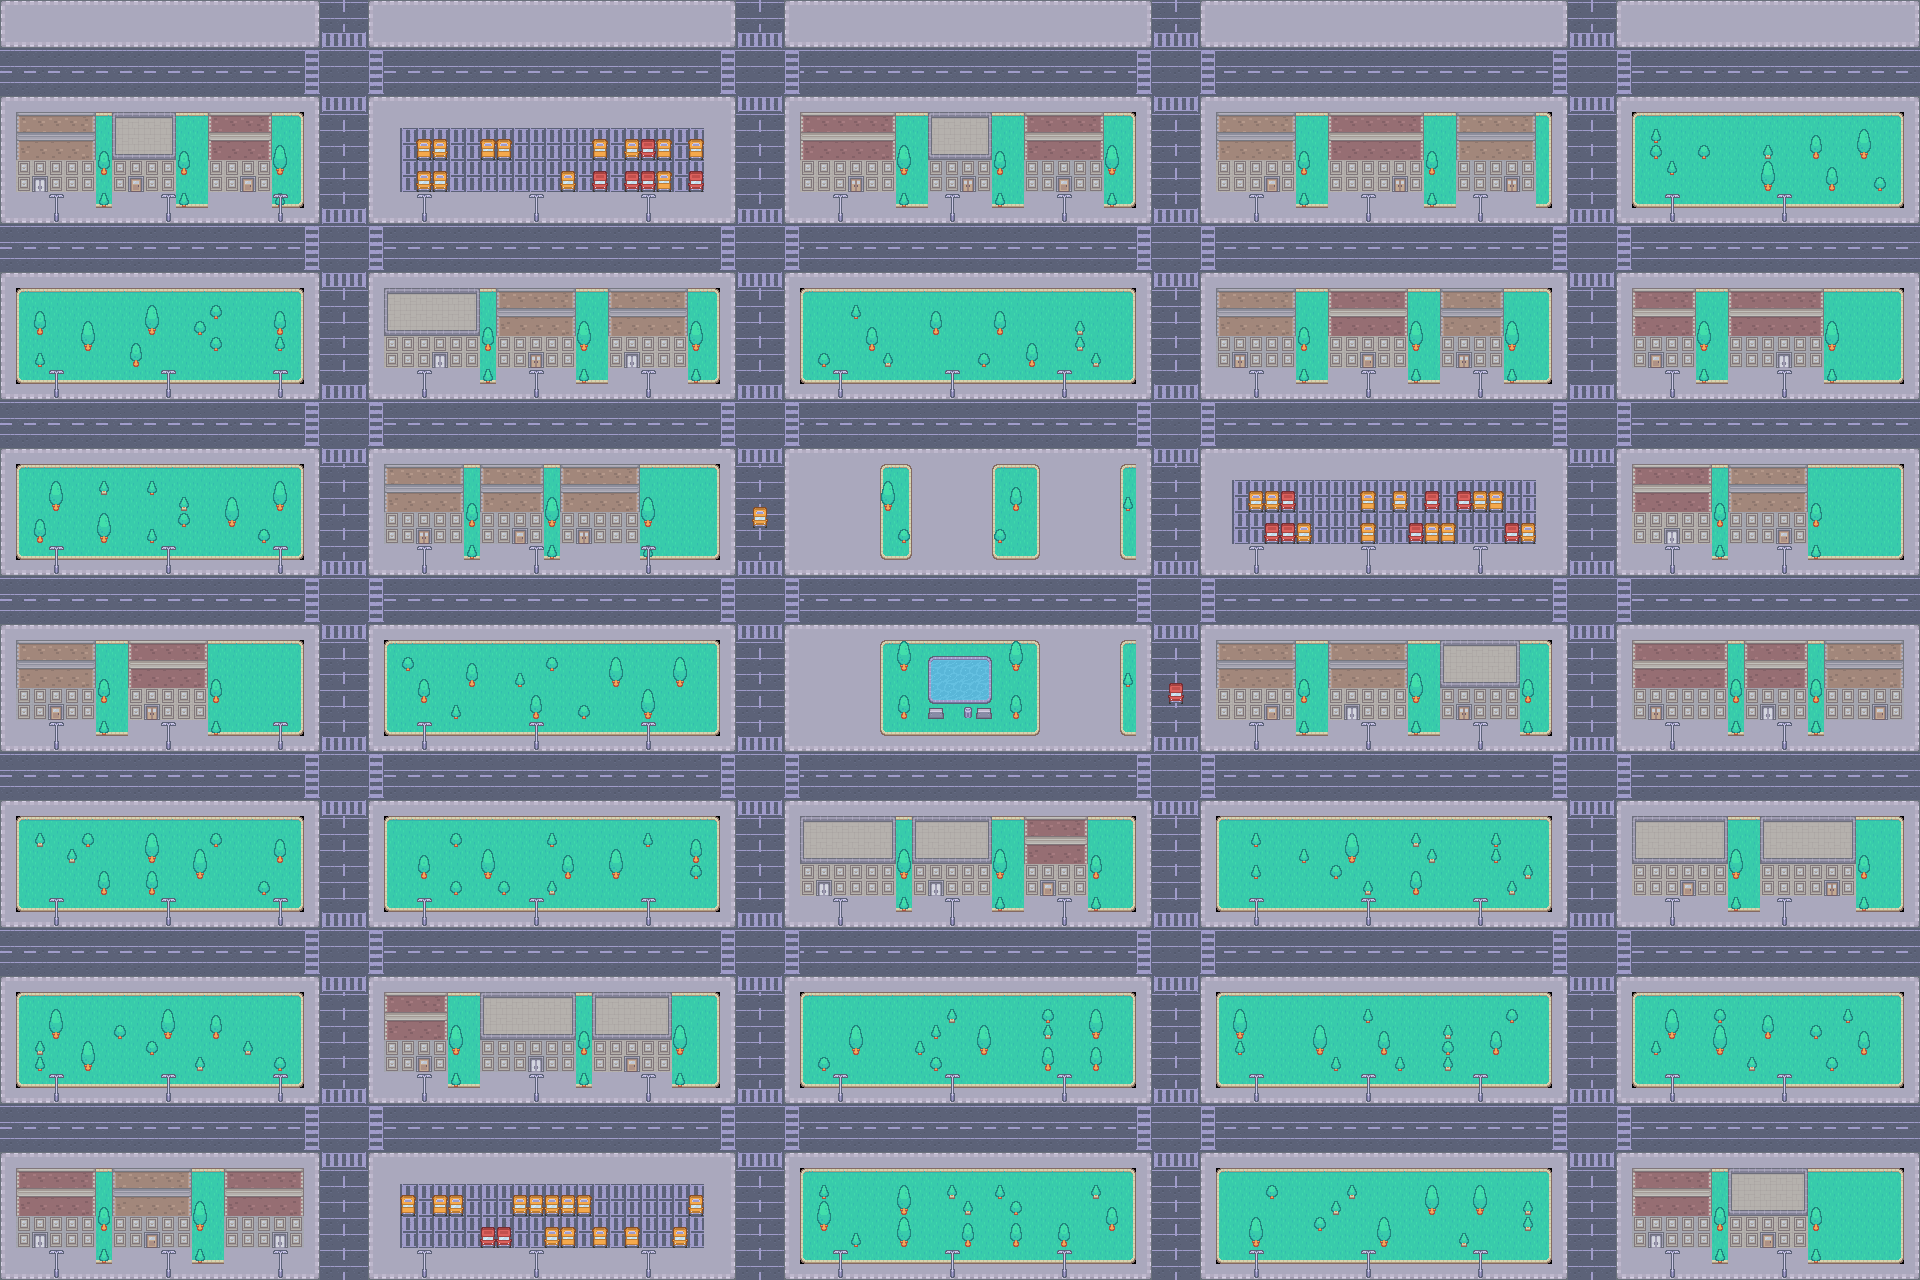
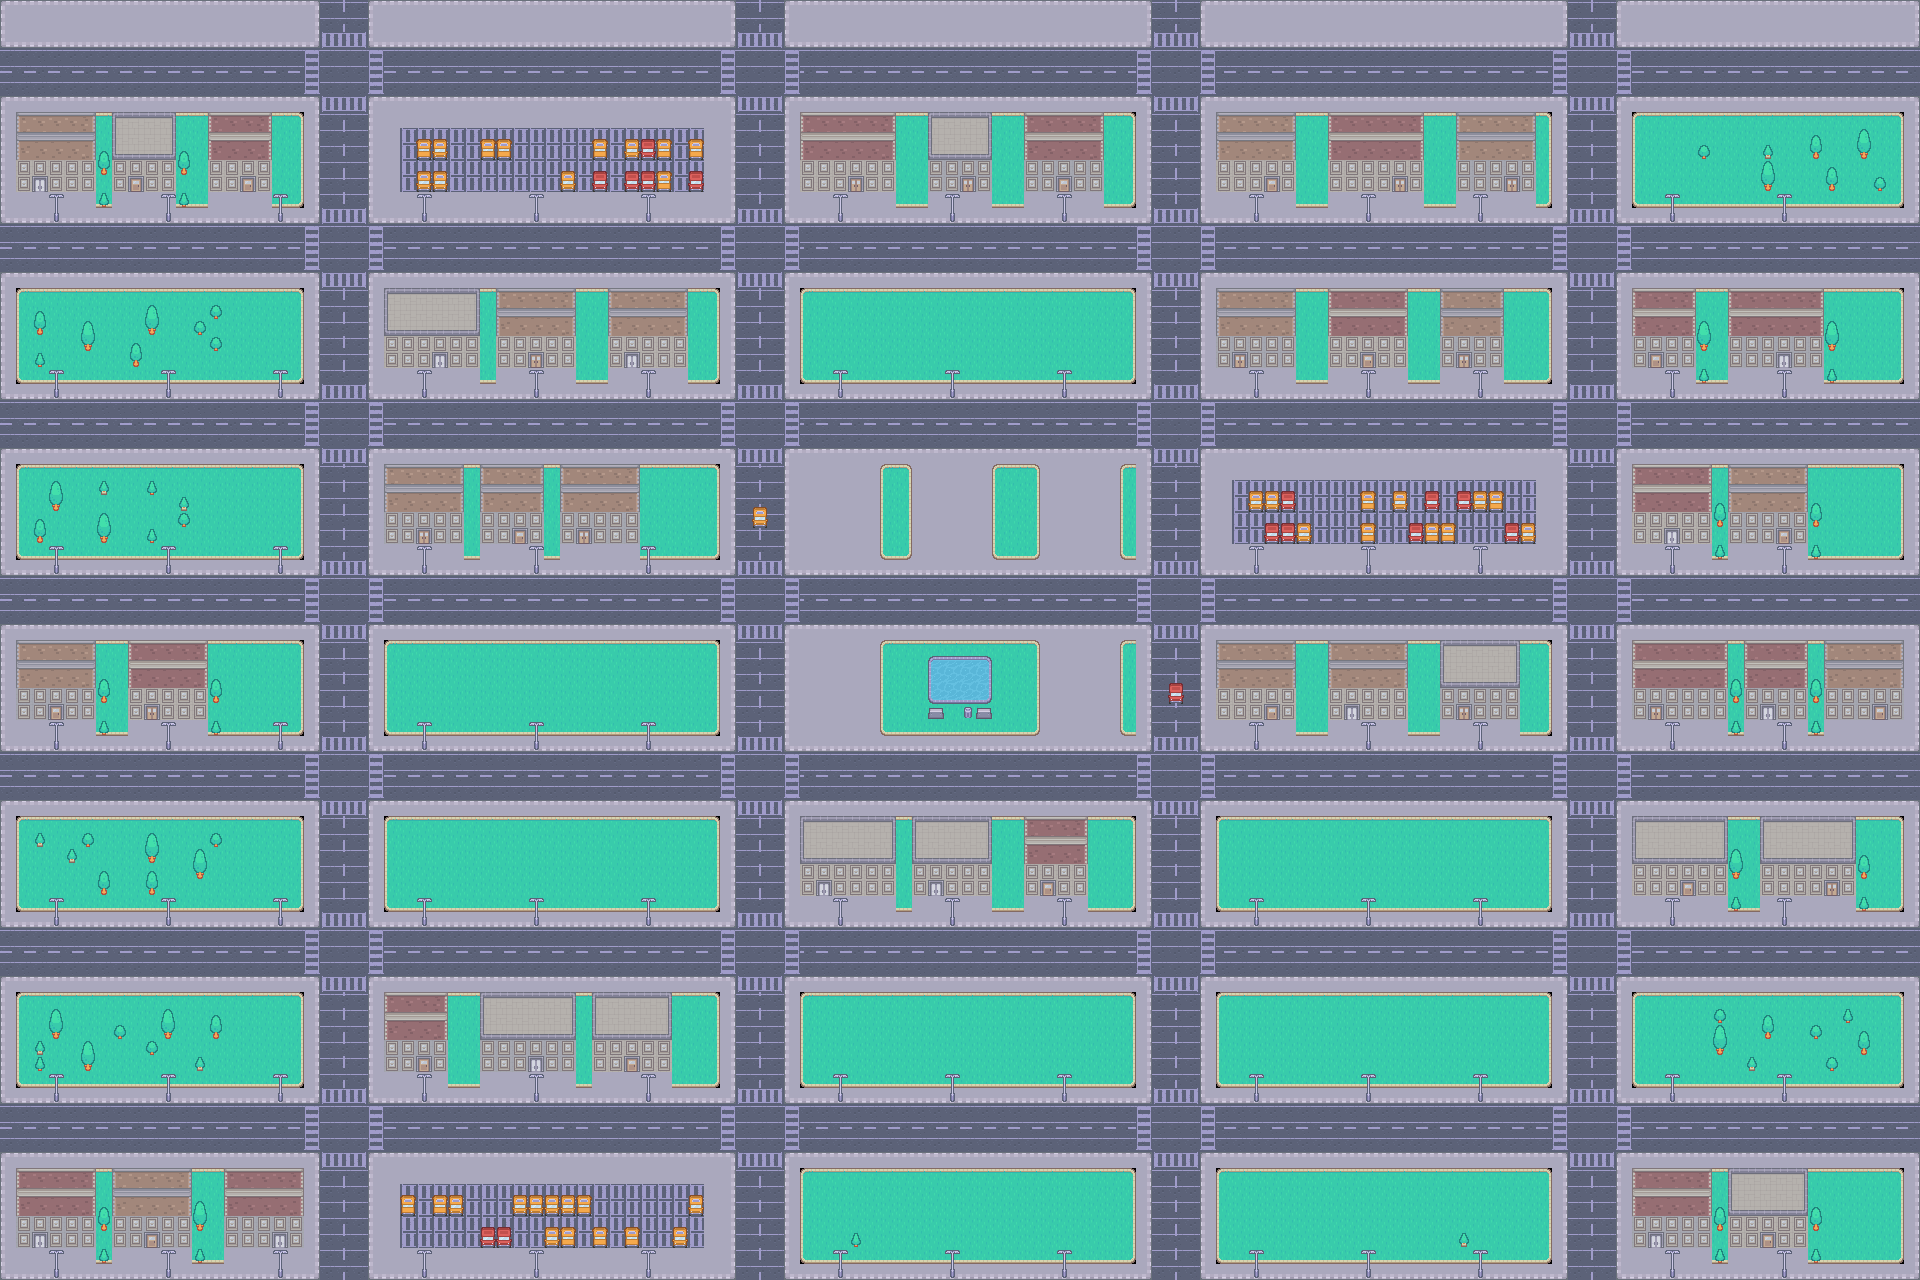
Map: the town breathes (swaying trees, cars, a gust of leaves)
- Trees and bushes near the play area are no longer baked into world.png:
  tools/build-world.py exports their sprites and positions (worldLife.json)
  and WorldLife draws them with a gentle sway, each tree out of step.
- Cars drive both ways on the streets around the play area, keeping left;
  sprites are the kit's cars, turned for each direction.
- A gust of six leaves blows across the top of the screen every 16 s.
- CSS transform animations only, under the buildings and labels, never
  catching taps. Reduced motion and data saver hide the cars and leaves and
  keep the trees still.

diff --git a/apps/student/src/screens/WorldLife.tsx b/apps/student/src/screens/WorldLife.tsx
@@ -1,0 +1,78 @@
+import { memo } from 'react';
+import life from './worldLife.json';
+import './worldLife.css';
+
+// The map's living layer, drawn in world pixels under the buildings: the trees near the play area
+// sway, cars drive the streets around it (keeping left), and now and then a gust of leaves blows
+// across the top of the screen. Positions come from tools/build-world.py (worldLife.json). Pure CSS
+// animation on transforms only; all of it stops for reduced motion and data saver (worldLife.css).
+
+type Dir = 's' | 'n' | 'e' | 'w';
+interface Car {
+  dir: Dir;
+  pos: number; // the lane: x for a north/south street, y for an east/west one (world px)
+  car: number;
+  secs: number;
+  delay: number;
+}
+
+const [WW, WH] = life.world as [number, number];
+const trees = life.trees as [string, number, number][];
+const cars = life.cars as Car[];
+
+/** Trees and cars, inside the camera's world div (so they pan and zoom with it). */
+export const WorldLife = memo(function WorldLife() {
+  return (
+    <div className="wl" aria-hidden="true">
+      {trees.map(([name, x, y], i) => (
+        <img
+          key={i}
+          className={`wl-tree is-${name}`}
+          src={`/assets/life/${name}.png`}
+          alt=""
+          // Each tree starts somewhere else in its sway, so the wind ripples instead of marching.
+          style={{ left: x, top: y, animationDelay: `${-((x * 7 + y * 3) % 2600)}ms` }}
+        />
+      ))}
+      {cars.map((c, i) => {
+        const vertical = c.dir === 'n' || c.dir === 's';
+        return (
+          <img
+            key={`car${i}`}
+            className={`wl-car is-${c.dir}`}
+            src={`/assets/life/car-${c.car}-${c.dir}.png`}
+            alt=""
+            style={{
+              ...(vertical ? { left: c.pos, top: 0 } : { left: 0, top: c.pos }),
+              ['--wl-span' as string]: `${vertical ? WH : WW}px`,
+              animationDuration: `${c.secs}s`,
+              animationDelay: `${c.delay}s`,
+            }}
+          />
+        );
+      })}
+    </div>
+  );
+});
+
+const LEAVES = [
+  { top: 96, delay: 0, color: 'green' },
+  { top: 132, delay: 0.5, color: 'gold' },
+  { top: 112, delay: 1.1, color: 'green' },
+  { top: 160, delay: 1.6, color: 'green' },
+  { top: 104, delay: 2.2, color: 'gold' },
+  { top: 146, delay: 2.9, color: 'green' },
+];
+
+/** A gust of leaves across the top of the screen (screen pixels, over the map, under the UI). */
+export function LeafGust() {
+  return (
+    <div className="wl-gust" aria-hidden="true">
+      {LEAVES.map((l, i) => (
+        <span key={i} className="wl-leaf" style={{ top: l.top, animationDelay: `${l.delay}s` }}>
+          <img src={`/assets/life/leaf-${l.color}.png`} alt="" style={{ animationDelay: `${-i * 0.3}s` }} />
+        </span>
+      ))}
+    </div>
+  );
+}

diff --git a/apps/student/src/screens/worldLife.css b/apps/student/src/screens/worldLife.css
@@ -1,0 +1,50 @@
+/* The map's living layer (WorldLife.tsx). Everything moves with transforms only, and nothing moves
+   for reduced motion or data saver: cars and leaves are hidden, trees stand still. */
+.wl { position: absolute; inset: 0; pointer-events: none; }
+.wl img { position: absolute; display: block; image-rendering: pixelated; }
+.wl-tree { transform-origin: 50% 100%; }
+.wl .wl-car { display: none; }
+.wl-gust { position: fixed; inset: 0; z-index: 2; overflow: hidden; pointer-events: none; }
+.wl-leaf { position: absolute; left: 0; display: none; }
+.wl-leaf img { display: block; width: 15px; height: 12px; image-rendering: pixelated; }
+
+@media (prefers-reduced-motion: no-preference) {
+  :root:not([data-saver]) .wl-tree { animation: wl-sway 2.6s ease-in-out infinite alternate; }
+  :root:not([data-saver]) .wl-tree.is-bush,
+  :root:not([data-saver]) .wl-tree.is-shrub { animation-name: wl-breathe; animation-duration: 3.4s; }
+
+  /* A car crosses the whole world, then comes round again; --wl-span is the street's length. */
+  :root:not([data-saver]) .wl-car { display: block; will-change: transform; animation: wl-drive linear infinite; }
+  :root:not([data-saver]) .wl-car.is-s { animation-name: wl-south; }
+  :root:not([data-saver]) .wl-car.is-n { animation-name: wl-north; }
+  :root:not([data-saver]) .wl-car.is-e { animation-name: wl-east; }
+  :root:not([data-saver]) .wl-car.is-w { animation-name: wl-west; }
+
+  /* The gust: six leaves blow across in the first few seconds of a 16 s cycle, then calm. */
+  :root:not([data-saver]) .wl-leaf { display: block; animation: wl-blow 16s linear infinite; }
+  :root:not([data-saver]) .wl-leaf img { animation: wl-flutter 0.9s ease-in-out infinite alternate; }
+}
+
+@keyframes wl-sway {
+  from { transform: skewX(-2.5deg); }
+  to { transform: skewX(2.5deg); }
+}
+@keyframes wl-breathe {
+  from { transform: scale(1, 1); }
+  to { transform: scale(1.04, 0.95); }
+}
+@keyframes wl-south { from { transform: translateY(-48px); } to { transform: translateY(var(--wl-span)); } }
+@keyframes wl-north { from { transform: translateY(var(--wl-span)); } to { transform: translateY(-48px); } }
+@keyframes wl-east { from { transform: translateX(-48px); } to { transform: translateX(var(--wl-span)); } }
+@keyframes wl-west { from { transform: translateX(var(--wl-span)); } to { transform: translateX(-48px); } }
+@keyframes wl-blow {
+  0% { transform: translate(-24px, 0); opacity: 0; }
+  2% { opacity: 1; }
+  12% { transform: translate(calc(50vw - 12px), 36px); }
+  24% { transform: translate(calc(100vw + 24px), 12px); opacity: 1; }
+  25%, 100% { transform: translate(calc(100vw + 24px), 12px); opacity: 0; }
+}
+@keyframes wl-flutter {
+  from { transform: rotate(-35deg) translateY(-3px); }
+  to { transform: rotate(40deg) translateY(4px); }
+}

diff --git a/apps/student/src/screens/LocationScreen.tsx b/apps/student/src/screens/LocationScreen.tsx
@@ -3,6 +3,7 @@ import type { Lang } from '@paisa/shared';
 import { t } from '../features/decisions/content';
 import '../features/decisions/decisions.css';
 import { PixelText } from '../PixelText';
+import { LeafGust, WorldLife } from './WorldLife';
 
 // Backdrop: public/assets/world.png (1920x1280, a 16px-tile town from the Kenney RPG Urban Kit, built by
 // tools/build-world.py) is pure scenery; the five buildings are drawn over it at fixed pixel positions. The camera only ever scales
@@ -69,6 +70,7 @@ export function LocationScreen({ lang, pinned = [], guide, onSelect }: {
         className="world"
         style={{ width: WORLD.w, height: WORLD.h, transform: `translate(${cam.x}px, ${cam.y}px) scale(${cam.zoom})` }}
       >
+        <WorldLife />
         {LOCATIONS.map((l) => (
           <button
             key={l.id}
@@ -89,6 +91,7 @@ export function LocationScreen({ lang, pinned = [], guide, onSelect }: {
           </button>
         ))}
       </div>
+      <LeafGust />
     </div>
   );
 }

diff --git a/apps/student/tools/build-world.py b/apps/student/tools/build-world.py
@@ -26,8 +26,18 @@ def put(img, col, row):
     world.alpha_composite(img, (col * T, row * T))
 
 
+LIVING = {}      # id(parts) -> sprite name, for trees and bushes the map animates (filled below)
+ALIVE = []       # [name, x, y] in world px: drawn by src/screens/WorldLife.tsx, not baked in
+# Trees this close to the play area sway on screen; farther ones are baked into the backdrop.
+LIFE_BOX = (OX - 560, OY - 400, OX + SW + 560, OY + SH + 400)
+
+
 def sprite(parts, col, row):
     """parts: [(dc, dr, sheet_col, sheet_row)] placed relative to (col, row)."""
+    x, y = col * T, row * T
+    if id(parts) in LIVING and LIFE_BOX[0] <= x < LIFE_BOX[2] and LIFE_BOX[1] <= y < LIFE_BOX[3]:
+        ALIVE.append([LIVING[id(parts)], x, y])
+        return
     for dc, dr, c, r in parts:
         put(tile(c, r), col + dc, row + dr)
 
@@ -58,6 +68,8 @@ SHRUB = [(0, 0, 22, 9)]
 LAMP = [(0, 0, 3, 6), (0, 1, 3, 7)]
 BENCH = [(0, 0, 0, 10)]
 BIN = [(0, 0, 9, 10)]
+LIVING.update({id(TREE_TALL): 'tree-tall', id(TREE_ROUND): 'tree-round', id(TREE_SMALL): 'tree-small',
+               id(BUSH): 'bush', id(SHRUB): 'shrub'})
 CAR_DOWN = [[(0, 0, 17, 14), (0, 1, 17, 15)], [(0, 0, 17, 16), (0, 1, 17, 17)], [(0, 0, 20, 14), (0, 1, 20, 15)]]
 PARK_BAY = tile(2, 16)
 
@@ -235,6 +247,50 @@ sprite(CAR_DOWN[0], 47, 31)
 sprite(CAR_DOWN[1], 73, 42)
 
 world.convert('RGB').save('public/assets/world.png')
+
+# ---- the living layer (src/screens/WorldLife.tsx): tree sprites, cars and leaves ------------
+import json, os
+LIFE = 'public/assets/life'
+os.makedirs(LIFE, exist_ok=True)
+for name, parts in (('tree-tall', TREE_TALL), ('tree-round', TREE_ROUND), ('tree-small', TREE_SMALL),
+                    ('bush', BUSH), ('shrub', SHRUB)):
+    h = max(p[1] for p in parts) + 1
+    im = Image.new('RGBA', (T, h * T))
+    for dc, dr, c, rr in parts:
+        im.alpha_composite(tile(c, rr), (dc * T, dr * T))
+    im.save(f'{LIFE}/{name}.png')
+# Cars: the kit draws them heading down the screen (south); the other three directions are turns.
+CARS = [(17, 14), (17, 16), (20, 14), (20, 16), (21, 14)]
+for i, (c, rr) in enumerate(CARS):
+    south = Image.new('RGBA', (T, 2 * T))
+    south.alpha_composite(tile(c, rr), (0, 0)); south.alpha_composite(tile(c, rr + 1), (0, T))
+    south.save(f'{LIFE}/car-{i}-s.png')
+    south.rotate(180).save(f'{LIFE}/car-{i}-n.png')
+    south.rotate(90, expand=True).save(f'{LIFE}/car-{i}-e.png')
+    south.rotate(-90, expand=True).save(f'{LIFE}/car-{i}-w.png')
+for name, px in (('leaf-green', (61, 168, 92, 255)), ('leaf-gold', (233, 170, 46, 255))):
+    leaf = Image.new('RGBA', (5, 4))
+    for (x, y) in ((1, 0), (2, 0), (0, 1), (1, 1), (2, 1), (3, 1), (1, 2), (2, 2), (3, 2), (4, 3)):
+        leaf.putpixel((x, y), px)
+    leaf.putpixel((2, 1), (255, 255, 255, 120))
+    leaf.save(f'{LIFE}/{name}.png')
+
+# Cars keep left (India): heading south on a street's east lane, north on its west lane, east on
+# the north lane, west on the south lane. One car per lane on the streets around the play area.
+crng = random.Random(11)
+cars = []
+for start in (46, 72):
+    for lane, d in ((start + 2, 's'), (start, 'n')):
+        cars.append({'dir': d, 'pos': lane * T, 'car': crng.randrange(len(CARS)),
+                     'secs': crng.randint(16, 26), 'delay': -crng.randint(0, 20)})
+for start in (25, 36, 47):
+    for lane, d in ((start, 'e'), (start + 2, 'w')):
+        cars.append({'dir': d, 'pos': lane * T, 'car': crng.randrange(len(CARS)),
+                     'secs': crng.randint(18, 30), 'delay': -crng.randint(0, 24)})
+with open('src/screens/worldLife.json', 'w') as f:
+    json.dump({'world': [WW, WH], 'trees': ALIVE, 'cars': cars}, f, separators=(',', ':'))
+    f.write('\n')
+print('living trees', len(ALIVE), 'cars', len(cars))
 print('world', world.size, 'stage origin', (OX, OY))
 for k, (c, r) in LOTS.items():
     print(f"  {k}: x {c * T - OX}, y {r * T - OY}")

diff --git a/CLAUDE.md b/CLAUDE.md
@@ -460,6 +460,7 @@ Append decisions here as `YYYY-MM-DD HH:MM — decision — who`.
 - 2026-10-11 06:30 — Shop sub-map: the store sheet lists the phone shop, kirana and clothes stall from `places.json`, plus the work counter. A pin with a sublocation plays at its spot (the badge is there); tapping the Shop on the map plays only a pin at the Shop itself. The kirana otherwise opens Kirana Run — UI-1.
 - 2026-10-11 07:00 — The dashboard counts decisions per card, not per week: the decision loop pins 2–4 cards a week, so `class_progress` keys a decision by month + week + `scenarioId` (a re-made card still replaces the old choice; a rewind hides only its own card). Migration `20261011150000_decisions_per_card.sql`, no contract change — BE-2.
 - 2026-10-11 06:45 — The map is a town built from the Kenney RPG Urban Kit only (tools/build-world.py), the same CC0 kit as the buildings, replacing the forest backdrop whose source pack is not in the repo. Five building lots in two rows inside the 352x380 play area (Home, School, Shop; Bank, park and fountain, Hospital), so a 360 px phone sees all of them; outer blocks have muted, unlabelled background buildings, parks and car parks. The five places always show an outline and a pixel shadow (*-outline.png from build-sprites.py); the Bank roof is navy and the Hospital roof white so neither melts into the grey pavement. The camera centres the play area below the meters bar — UI-1.
+- 2026-10-11 07:15 — The map breathes: trees near the play area sway, cars drive the nearby streets (keeping left), and a gust of leaves crosses the top every 16 s (src/screens/WorldLife.tsx; positions and sprites from tools/build-world.py). CSS transforms only; reduced motion and data saver stop all of it — UI-1.
 
 Open questions:
 - Which license does Section 11 of the brief require for the `LICENSE` file?
